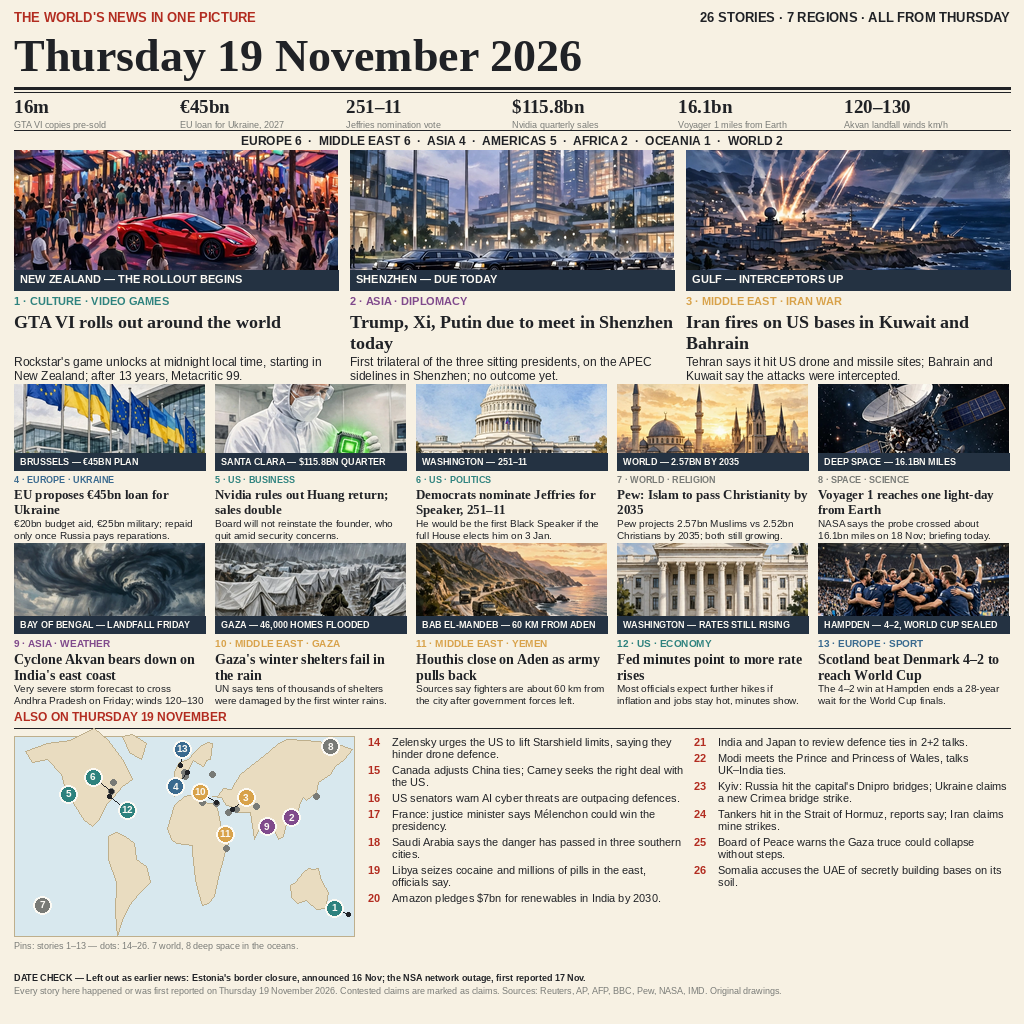
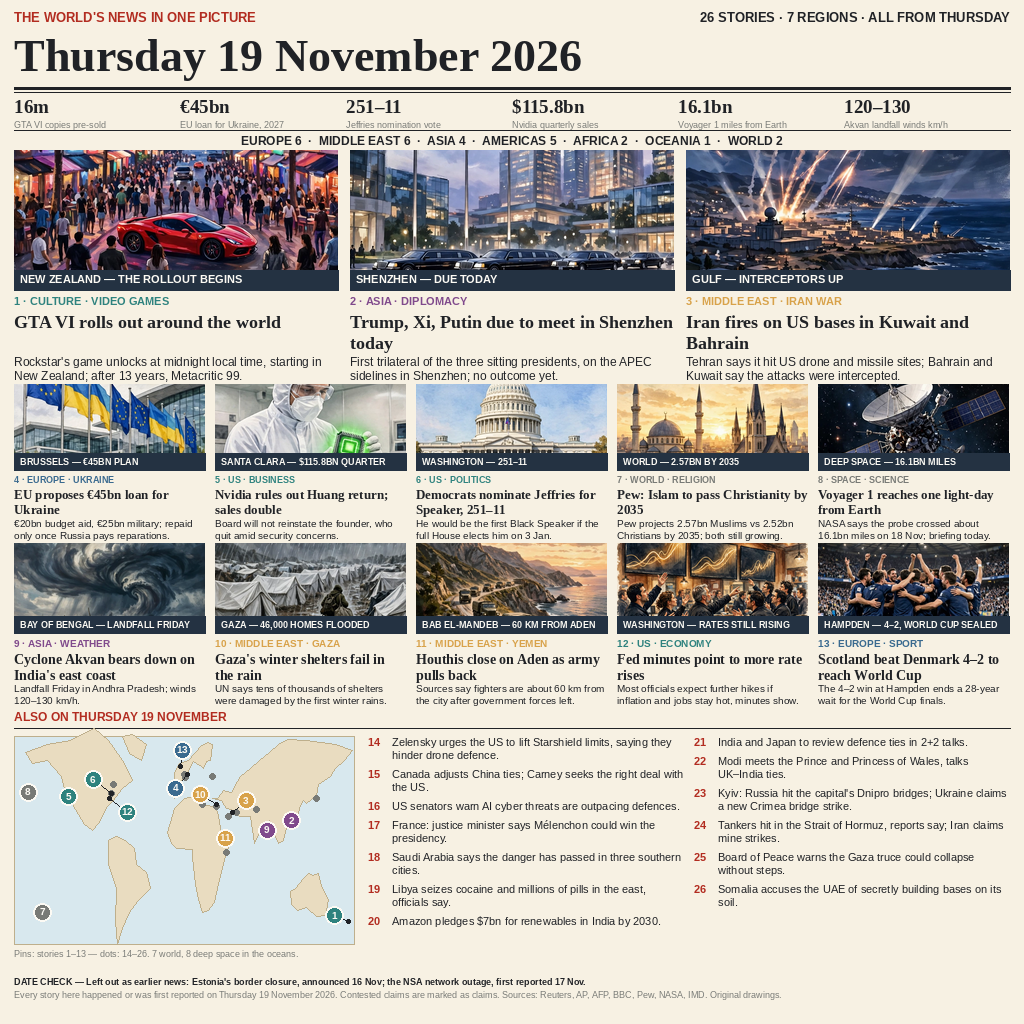
Kanbara Guard v1.0 — BSC transaction guard (Cloudflare Worker)

diff --git a/render.py b/render.py
@@ -8,7 +8,8 @@ thirteen more as a numbered list beside a world map.
 
 What is different from the earlier v2 page, and why:
 - thirteen illustrations instead of twelve, all newly generated for this
-  build as three painterly strips (leads, smalls-A, smalls-B);
+  build as three painterly strips (leads, smalls-A, smalls-B), with the
+  Fed panel regenerated on its own so it does not repeat the Capitol;
 - taller hero pictures and a denser grid, so the page reads at thumbnail
   size;
 - the map is fixed: the GTA pin sits on New Zealand, the two Washington
@@ -131,6 +132,13 @@ SMALL_B_BOXES = [
     (SMALLS_B, 2834, 3505, 4, 700),
 ]
 
+# One panel was regenerated on its own: story 12 (the Fed) first came out
+# as a second white-columned building, too close to the Capitol in story
+# 6, so it was replaced with a trading floor under rising charts.
+STANDALONE = {
+    12: "media-generation-panel-12-fed-0-d190b146-fea9-4361-ba7b-9bcaafae9d6d.png",
+}
+
 _PANEL_CACHE = {}
 
 
@@ -138,6 +146,10 @@ def panel_for(number):
     """Return the generated illustration for story `number` (1-13)."""
     if number in _PANEL_CACHE:
         return _PANEL_CACHE[number]
+    if number in STANDALONE:
+        panel = Image.open(ASSETS / STANDALONE[number]).convert("RGB")
+        _PANEL_CACHE[number] = panel
+        return panel
     if number <= 3:
         fname, x0, x1, y0, y1 = LEAD_BOXES[number - 1]
     elif number <= 8:
@@ -247,8 +259,7 @@ MEDIUMS_ROW1 = [
 MEDIUMS_ROW2 = [
     (9, "Asia", "9 \u00b7 ASIA \u00b7 WEATHER",
      "Cyclone Akvan bears down on India's east coast",
-     "Very severe storm forecast to cross Andhra Pradesh on Friday; "
-     "winds 120\u2013130 km/h.",
+     "Landfall Friday in Andhra Pradesh; winds 120\u2013130 km/h.",
      "BAY OF BENGAL \u2014 LANDFALL FRIDAY"),
     (10, "Middle East", "10 \u00b7 MIDDLE EAST \u00b7 GAZA",
      "Gaza's winter shelters fail in the rain",
@@ -311,7 +322,7 @@ PINS = {
     5: (-122, 37, 0, 0),     # Santa Clara
     6: (-77, 39, -18, -14),  # Washington (Jeffries): badge up-left
     7: (-150, -35, 0, 0),    # World survey: South Pacific, ocean badge
-    8: (155, 68, 0, 0),      # Deep space: Arctic Ocean, star badge
+    8: (-165, 40, 0, 0),    # Deep space: North Pacific, ocean badge
     9: (88, 16, 0, 0),       # Bay of Bengal
     10: (34, 32, -16, -10),  # Gaza: badge up-left, clear of the Gulf
     11: (44, 11, 0, 0),      # Bab el-Mandeb
@@ -417,7 +428,7 @@ def render():
     draw.line([(MARGIN, ay + 18), (W - MARGIN, ay + 18)], fill=INK, width=1)
 
     # --- world map, with leader-line badges so nothing piles up ---
-    map_x, map_y, map_w, map_h = MARGIN, ay + 26, 340, 200
+    map_x, map_y, map_w, map_h = MARGIN, ay + 26, 340, 208
     draw.rectangle([map_x, map_y, map_x + map_w, map_y + map_h],
                    fill=SKY_LIGHT, outline=LAND_LINE)
 
@@ -466,11 +477,11 @@ def render():
             ly = y
             for line in lines[:2]:
                 draw.text((x + 24, ly), line, font=txt_font, fill=INK)
-                ly += 12
-            y = ly + 4
+                ly += 13
+            y = ly + 6
 
     # --- footer ---
-    foot_y = 972
+    foot_y = 976
     draw.text((MARGIN, foot_y),
               "DATE CHECK \u2014 Left out as earlier news: Estonia's border closure, announced 16 Nov; "
               "the NSA network outage, first reported 17 Nov.",

diff --git a/README.md b/README.md
@@ -16,7 +16,7 @@ The output is `out/entry.png`, the same 1024 by 1024 front page.
 
 ## How it works
 
-render.py draws entry.png at 1024 by 1024. It slices thirteen illustrations out of three painterly strips made for this entry (assets/), one per illustrated story, crops each to its panel, and adds a caption bar naming the place. The map is drawn from a short list of continent outlines, with offset badges and leader lines for the crowded places. main.py only copies that image to the output directory, so the entry runs on the standard library alone and writes the same bytes every time.
+render.py draws entry.png at 1024 by 1024. It slices thirteen illustrations out of three painterly strips made for this entry (assets/), one per illustrated story — the Fed panel was regenerated on its own so it does not repeat the Capitol — crops each to its panel, and adds a caption bar naming the place. The map is drawn from a short list of continent outlines, with offset badges and leader lines for the crowded places. main.py only copies that image to the output directory, so the entry runs on the standard library alone and writes the same bytes every time.
 
 ---
 
